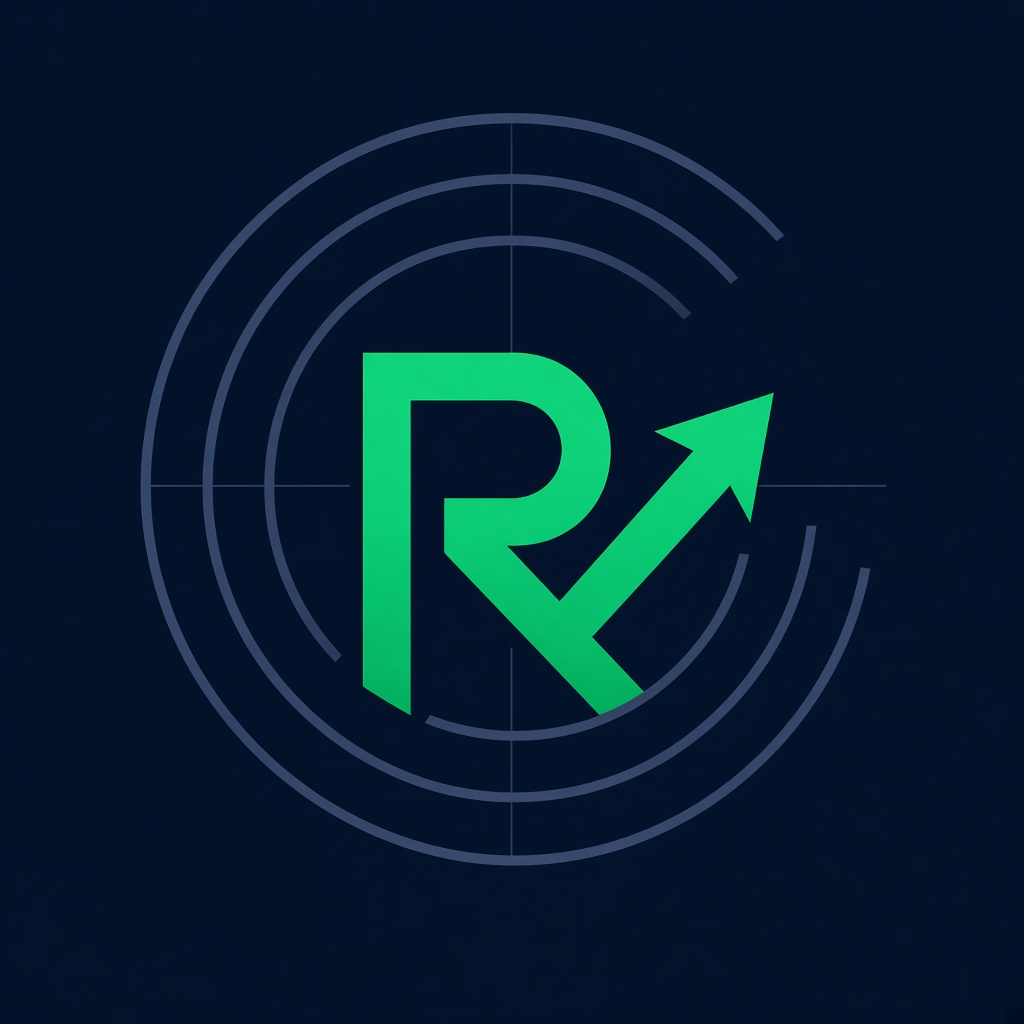
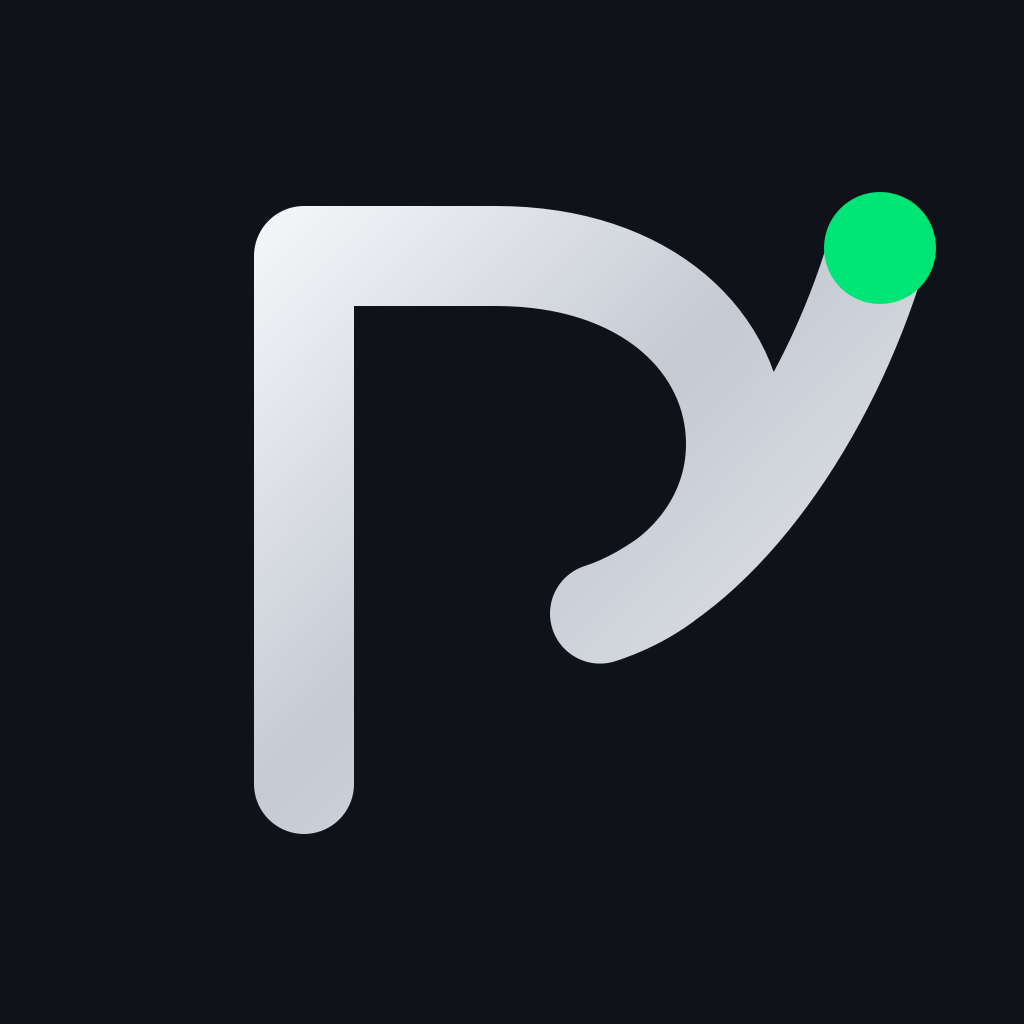
Replace the radar mark with a geometric R/Ra monogram.
Use a reusable SVG logo on the dashboard and ship matching favicon and install icons.

diff --git a/web/components/RizgLogo.tsx b/web/components/RizgLogo.tsx
@@ -1,21 +1,73 @@
-import Image from "next/image";
+import {
+  RIZG_ACCENT,
+  RIZG_BG,
+  RIZG_INK,
+  RIZG_INK_SOFT,
+  RIZG_MONOGRAM_PATH,
+} from "@/lib/rizg-mark";
+
+type RizgLogoProps = {
+  size?: number;
+  className?: string;
+  framed?: boolean;
+  title?: string;
+};
 
 export function RizgLogo({
   size = 56,
   className = "",
-}: {
-  size?: number;
-  className?: string;
-}) {
+  framed = true,
+  title = "رزق",
+}: RizgLogoProps) {
+  const gradientId = "rizg-mark-silver";
+
   return (
-    <Image
-      src="/icons/icon-192.png"
-      alt=""
+    <svg
       width={size}
       height={size}
-      unoptimized
-      priority
-      className={`rounded-[14px] ring-1 ring-white/10 ${className}`}
-    />
+      viewBox="0 0 128 128"
+      fill="none"
+      role="img"
+      aria-label={title}
+      className={className}
+    >
+      <title>{title}</title>
+      {framed ? (
+        <>
+          <rect width="128" height="128" rx="32" fill={RIZG_BG} />
+          <rect
+            x="1"
+            y="1"
+            width="126"
+            height="126"
+            rx="31"
+            stroke="#FFFFFF"
+            strokeOpacity="0.08"
+          />
+        </>
+      ) : null}
+      <defs>
+        <linearGradient
+          id={gradientId}
+          x1="30"
+          y1="24"
+          x2="108"
+          y2="100"
+          gradientUnits="userSpaceOnUse"
+        >
+          <stop stopColor="#F8FAFC" />
+          <stop offset="0.5" stopColor={RIZG_INK_SOFT} />
+          <stop offset="1" stopColor={RIZG_INK} />
+        </linearGradient>
+      </defs>
+      <path
+        d={RIZG_MONOGRAM_PATH}
+        stroke={`url(#${gradientId})`}
+        strokeWidth="12.5"
+        strokeLinecap="round"
+        strokeLinejoin="round"
+      />
+      <circle cx="110" cy="31" r="7" fill={RIZG_ACCENT} />
+    </svg>
   );
 }

diff --git a/web/lib/rizg-mark.ts b/web/lib/rizg-mark.ts
@@ -1,0 +1,30 @@
+export const RIZG_BG = "#0F1218";
+export const RIZG_INK = "#E8EAED";
+export const RIZG_INK_SOFT = "#C5CAD3";
+export const RIZG_ACCENT = "#00E676";
+
+/** Geometric R + Arabic ر as one rising stroke. ViewBox 0 0 128 128. */
+export const RIZG_MONOGRAM_PATH =
+  "M38 98V32h24c19 0 30 11 30 23.5 0 9.5-6.5 17.8-17 21.2 14-4.5 27.5-23 34-43.2";
+
+export function rizgMarkSvg({
+  rounded = false,
+  size = 128,
+}: {
+  rounded?: boolean;
+  size?: number;
+} = {}): string {
+  const rx = rounded ? 32 : 0;
+  return `<svg xmlns="http://www.w3.org/2000/svg" viewBox="0 0 128 128" width="${size}" height="${size}" fill="none">
+  <rect width="128" height="128" rx="${rx}" fill="${RIZG_BG}"/>
+  <defs>
+    <linearGradient id="rizgSilver" x1="30" y1="24" x2="108" y2="100" gradientUnits="userSpaceOnUse">
+      <stop stop-color="#F8FAFC"/>
+      <stop offset=".5" stop-color="${RIZG_INK_SOFT}"/>
+      <stop offset="1" stop-color="${RIZG_INK}"/>
+    </linearGradient>
+  </defs>
+  <path d="${RIZG_MONOGRAM_PATH}" stroke="url(#rizgSilver)" stroke-width="12.5" stroke-linecap="round" stroke-linejoin="round"/>
+  <circle cx="110" cy="31" r="7" fill="${RIZG_ACCENT}"/>
+</svg>`;
+}

diff --git a/web/components/LiquidityDashboard.tsx b/web/components/LiquidityDashboard.tsx
@@ -143,7 +143,7 @@ export function LiquidityDashboard({
         <div>
           <div className="flex items-center gap-3">
             <RizgLogo className="h-12 w-12 shrink-0 sm:h-14 sm:w-14" />
-            <p className="text-2xl font-semibold tracking-wide text-emerald-400 sm:text-3xl">{ar.brand}</p>
+            <p className="text-2xl font-semibold tracking-wide text-zinc-100 sm:text-3xl">{ar.brand}</p>
           </div>
           <h1 className="mt-2 text-3xl font-semibold tracking-tight text-zinc-50 sm:text-4xl">{ar.title}</h1>
           <p className="mt-2 max-w-2xl text-sm leading-relaxed text-zinc-500">{ar.subtitle}</p>

diff --git a/web/app/manifest.ts b/web/app/manifest.ts
@@ -7,8 +7,8 @@ export default function manifest(): MetadataRoute.Manifest {
     description: "إشارات دخول وخروج من صافي تدفق الأموال مع أسعار مقترحة وهدف ووقف خسارة",
     start_url: "/",
     display: "standalone",
-    background_color: "#1A1F2C",
-    theme_color: "#1A1F2C",
+    background_color: "#0F1218",
+    theme_color: "#0F1218",
     lang: "ar",
     dir: "rtl",
     icons: [

diff --git a/web/app/layout.tsx b/web/app/layout.tsx
@@ -23,13 +23,13 @@ export const metadata: Metadata = {
     telephone: false,
   },
   other: {
-    "msapplication-TileColor": "#1A1F2C",
+    "msapplication-TileColor": "#0F1218",
     "msapplication-TileImage": "/icons/icon-256.png",
   },
 };
 
 export const viewport: Viewport = {
-  themeColor: "#1A1F2C",
+  themeColor: "#0F1218",
   colorScheme: "dark",
 };
 
